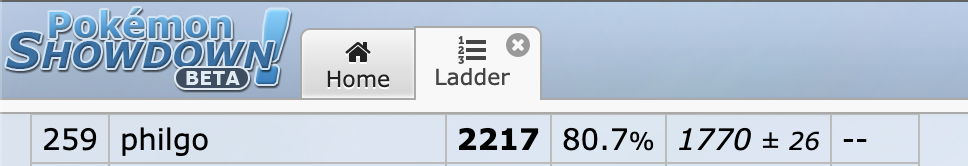
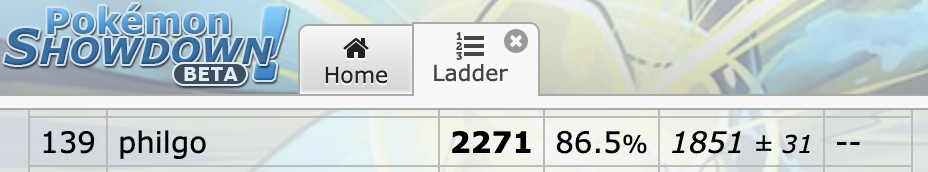
139

diff --git a/misc.html b/misc.html
@@ -19,7 +19,7 @@
         <img src="misc/king/king6.jpg" alt="king 6">
     </div>
     <hr>
-    <h3>I reached rank 259 on the global Pokémon Showdown Gen 9 Random Battles ladder on September 28, 2025.</h4>
+    <h3>I reached rank 139 on the global Pokémon Showdown Gen 9 Random Battles ladder on May 29, 2026.</h4>
     <img src="misc/top500.png" alt="top500" width="450">
     <hr>
     <h3>Below are my favorite Pokémon and teams from each region.</h3>
